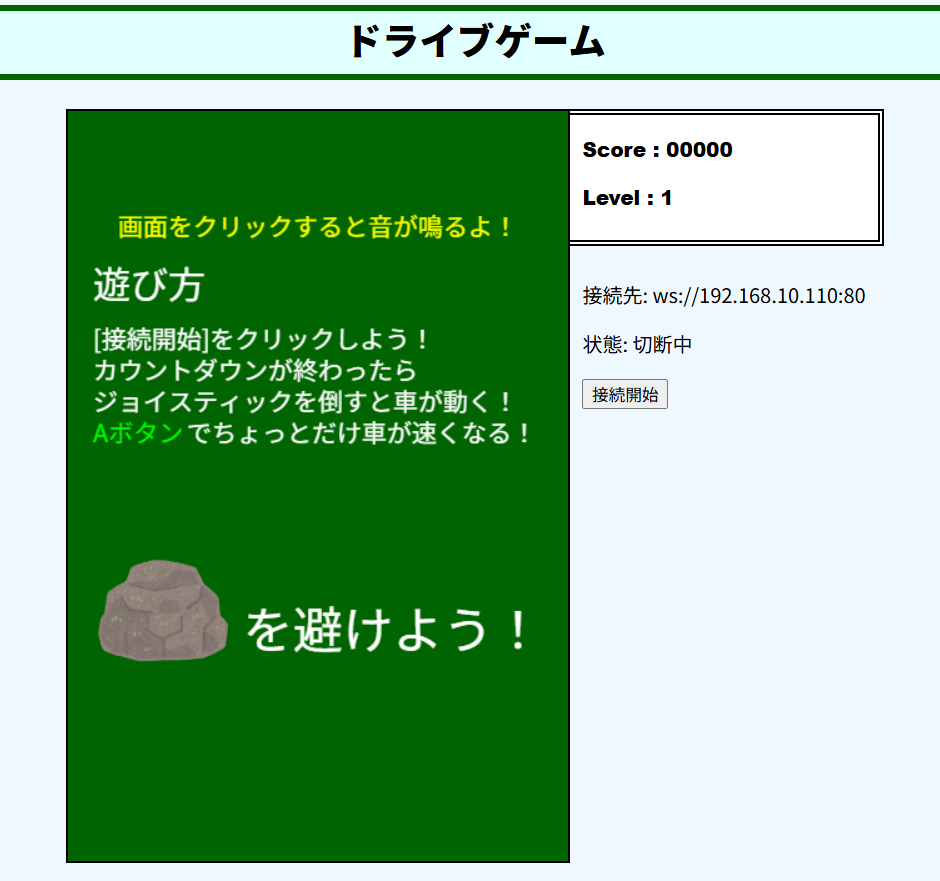
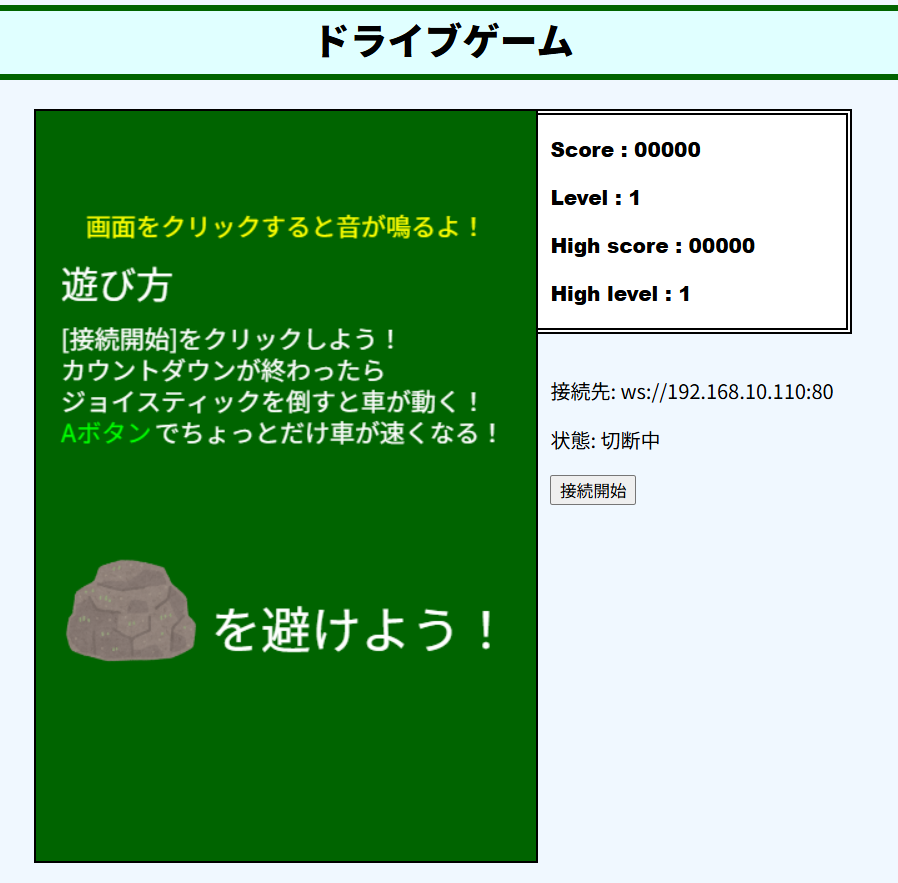
仕様更新に伴うREADMEの修正

Changed region(s): [[0.0312, 0.1226, 0.9666, 0.9807], [0.343, 0.0, 0.6548, 0.0919]]

diff --git a/README.md b/README.md
@@ -11,7 +11,8 @@ HTMLはGoogle Chromeでのみ動作確認済<br>
 <br>
 
 ![GitHub](./ReadmeImages/RepositoryQR.png)<br>
-**GitHubリポジトリのQRコード**
+**プロジェクトのGitHubリポジトリのQRコード**
+https://github.com/fanofJOTARO/2025TrainingGraduationProject
 
 ## 仕様
 
@@ -38,35 +39,37 @@ HTMLはGoogle Chromeでのみ動作確認済<br>
 ### ソフトウェア
 
 ざっくりしたプログラムフローチャート
+OLEDに立てられたアクセス用サーバー
 
 ```mermaid
 flowchart TD;
     Wifi接続-->|接続エラー|停止
-    Wifi接続-->websocketサーバー開始
-    websocketサーバー開始-->|クライアント側からの接続リクエスト|クライアントと接続
+    Wifi接続-->websocketサーバーとHTMLクライアント開始
+    websocketサーバーとHTMLクライアント開始-->要求が来るまで待機
+    要求が来るまで待機-->|ユーザーのクライアントへのアクセス要求|クライアントと接続
+    クライアントと接続-->HTML情報をユーザー側に送信-->切断
+    要求が来るまで待機-->|クライアント側からのwebsocket接続リクエスト|websocketサーバーとクライアントを接続
     クライアントと接続-->|通信エラー|切断
-    クライアントと接続-->コントローラーの入力受付
+    websocketサーバーとクライアントを接続-->|通信エラー|切断
+    websocketサーバーとクライアントを接続-->コントローラーの入力受付
     コントローラーの入力受付-->|入力データ|クライアントにデータ送信
     クライアントにデータ送信-->コントローラーの入力受付
-    クライアントにデータ送信-->|クライアント側からの切断|切断
-    切断-->|クライアント側からの接続リクエスト|クライアントと接続
+    クライアントにデータ送信-->|クライアント側からの切断or通信エラー|切断
+    切断-->要求が来るまで待機
 ```
 
 ### ゲーム
 
 ![サイトのスクリーンショット](./ReadmeImages/title.png)<br>
 サイトの最初の画面
-
 <br>
 
 ![プレイ画面](./ReadmeImages/play.png)<br>
 実際にプレイしている画面
-
 <br>
 
 ![alt text](./ReadmeImages/gameover.png)<br>
 ゲームオーバー画面
-
 <br>
 
 場面遷移図
@@ -92,4 +95,5 @@ flowchart LR;
 * ```Aボタン```（R4Wifiの5番PINに接続されたボタン）を押しながらジョイスティックを倒すことで移動速度が一時的に向上する
 * 草は当たっても問題ないが、岩は当たると車が破壊されゲームオーバーとなる
 * ゲームオーバー後は```Bボタン```（R4Wifiの4番PINに接続されたボタン）を押すことでリトライが可能
+* リトライするとき現在スコアが記録されているハイスコアより高かった時にハイスコアが更新される。
 * サイトのリロードはArduino側のリセットボタン
